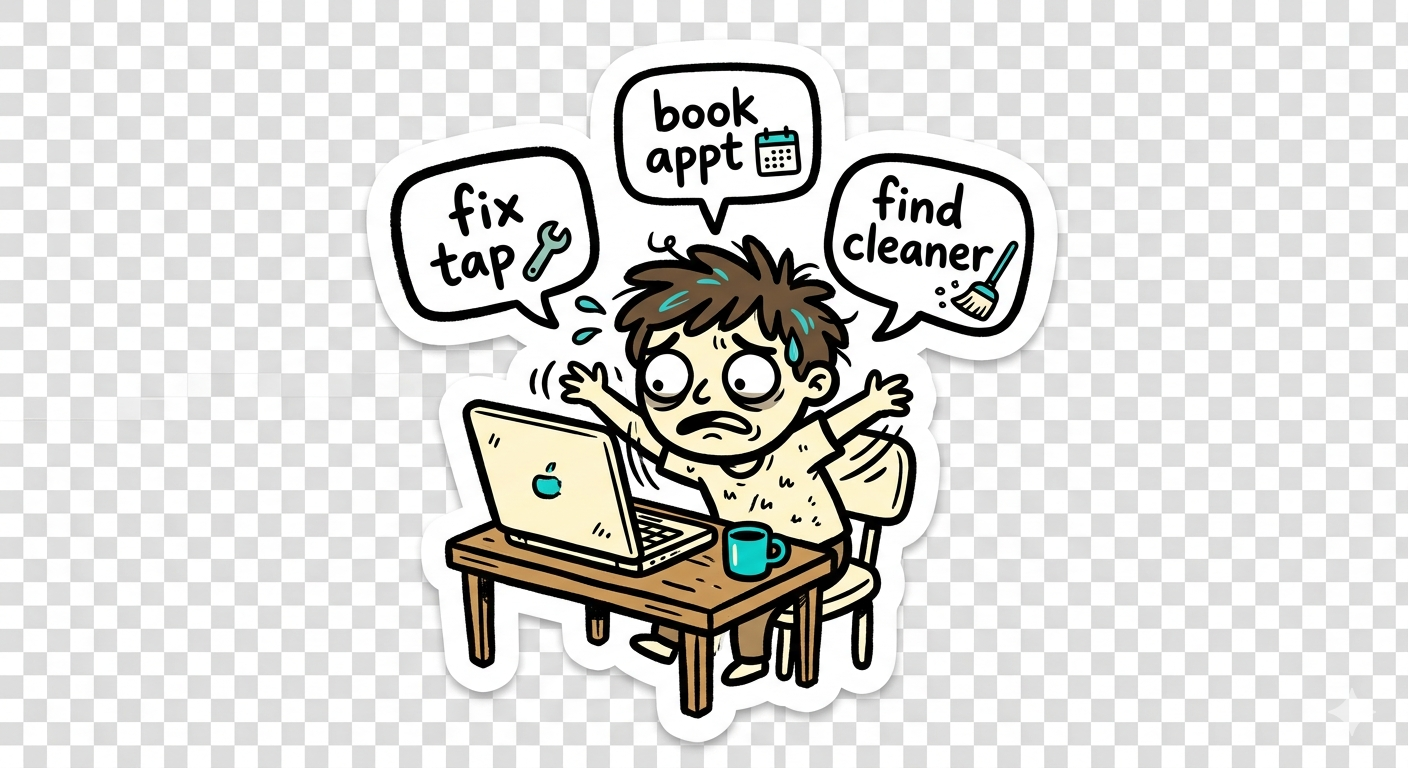
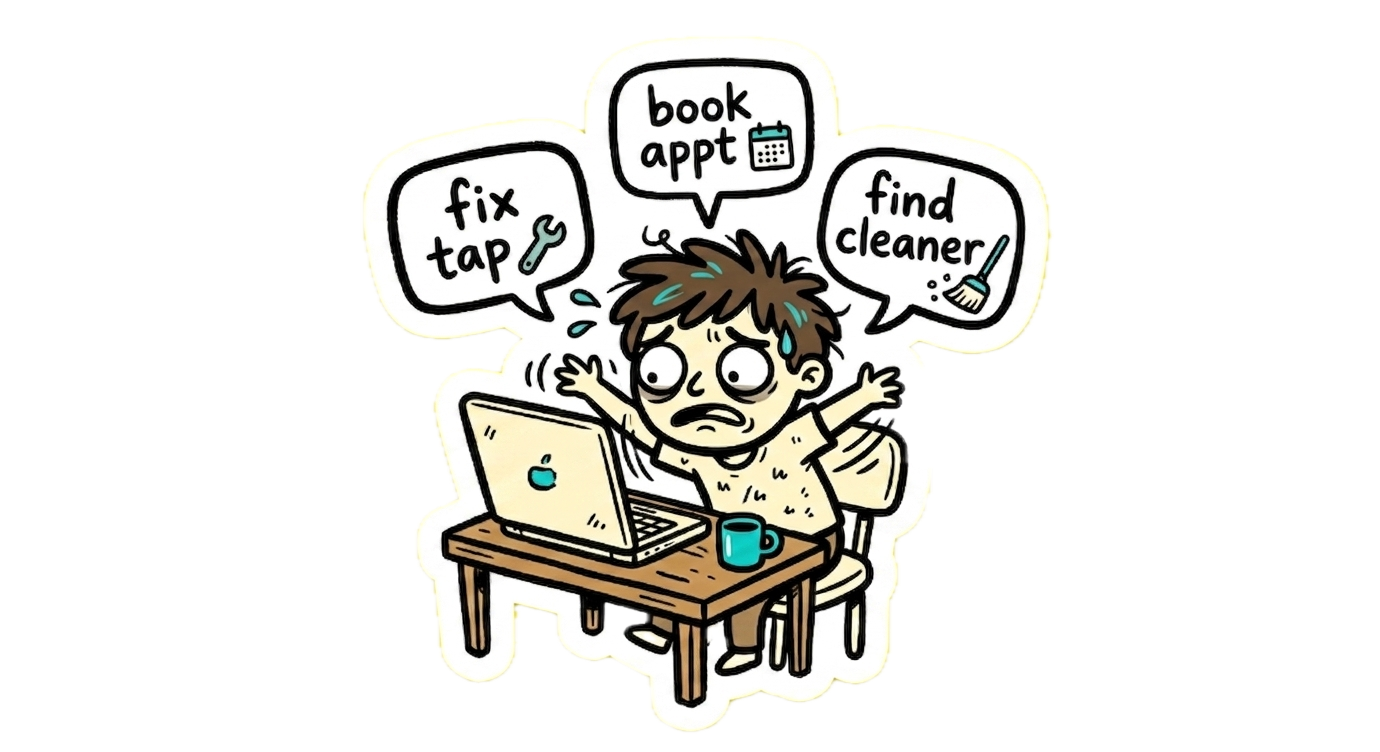
FIXXO: full-page dot grid, footer sticker layout, transparent stickers
Apply white dot grid site-wide; keep footer on card color with same
pattern. Inline human-ai sticker (45px) beside PROJ line to avoid
overlapping the back link. Commit updated GTA and stressed PNGs.

diff --git a/src/pages/projects/fixxo.tsx b/src/pages/projects/fixxo.tsx
@@ -304,14 +304,14 @@ export default function FixxoProjectPage() {
 
   const back = () => navigate('/#projects');
 
-  const dotGrid: CSSProperties = {
+  const pageDotGrid: CSSProperties = {
     backgroundColor: BG,
-    backgroundImage: 'radial-gradient(circle, rgba(0,212,212,0.06) 1px, transparent 1px)',
-    backgroundSize: '28px 28px',
+    backgroundImage: 'radial-gradient(circle, rgba(255,255,255,0.04) 1px, transparent 1px)',
+    backgroundSize: '24px 24px',
   };
 
   return (
-    <div style={{ background: BG, color: TEXT, fontFamily: sans, minHeight: '100vh' }}>
+    <div style={{ ...pageDotGrid, color: TEXT, fontFamily: sans, minHeight: '100vh' }}>
       <style>{`
         @media (max-width: 900px) {
           .fixxo-how-grid { grid-template-columns: 1fr !important; }
@@ -323,6 +323,7 @@ export default function FixxoProjectPage() {
           .fixxo-roadmap-grid { grid-template-columns: 1fr !important; }
           .fixxo-brand-grid { grid-template-columns: 1fr !important; }
           .fixxo-footer { grid-template-columns: 1fr !important; text-align: center; gap: 16px; }
+          .fixxo-footer-left { justify-self: center !important; justify-content: center !important; }
         }
       `}</style>
 
@@ -336,7 +337,7 @@ export default function FixxoProjectPage() {
           alignItems: 'center',
           gap: 12,
           padding: '14px clamp(16px, 4vw, 32px)',
-          background: BG,
+          background: 'transparent',
           borderBottom: '1px solid rgba(0,212,212,0.15)',
         }}
       >
@@ -377,7 +378,6 @@ export default function FixxoProjectPage() {
           position: 'relative',
           minHeight: '100vh',
           overflow: 'hidden',
-          ...dotGrid,
           padding: `${padX} ${padX} 64px`,
         }}
       >
@@ -1189,7 +1189,9 @@ export default function FixxoProjectPage() {
         style={{
           position: 'relative',
           padding: '28px clamp(16px, 4vw, 48px)',
-          background: CARD,
+          backgroundColor: CARD,
+          backgroundImage: 'radial-gradient(circle, rgba(255,255,255,0.04) 1px, transparent 1px)',
+          backgroundSize: '24px 24px',
           borderTop: '1px solid rgba(0,212,212,0.15)',
           display: 'grid',
           gridTemplateColumns: '1fr auto 1fr',
@@ -1197,13 +1199,29 @@ export default function FixxoProjectPage() {
           gap: 16,
         }}
       >
-        <img
-          src="/fixxo-sticker-human-ai.png"
-          alt=""
-          width={60}
-          style={{ position: 'absolute', right: 24, bottom: 20, opacity: 0.6, pointerEvents: 'none' }}
-        />
-        <span style={{ fontFamily: mono, fontSize: 12, color: MUTED, justifySelf: 'start' }}>PROJ / 04 · FIXXO · 2026</span>
+        <div
+          className="fixxo-footer-left"
+          style={{
+            display: 'flex',
+            alignItems: 'center',
+            justifySelf: 'start',
+            gap: 0,
+            minWidth: 0,
+          }}
+        >
+          <img
+            src="/fixxo-sticker-human-ai.png"
+            alt=""
+            width={45}
+            style={{
+              marginRight: '1rem',
+              opacity: 0.6,
+              flexShrink: 0,
+              display: 'block',
+            }}
+          />
+          <span style={{ fontFamily: mono, fontSize: 12, color: MUTED }}>PROJ / 04 · FIXXO · 2026</span>
+        </div>
         <span style={{ fontFamily: sans, fontSize: 13, color: CYAN, fontStyle: 'italic', textAlign: 'center' }}>
           Every task you can imagine. Consider it done.
         </span>